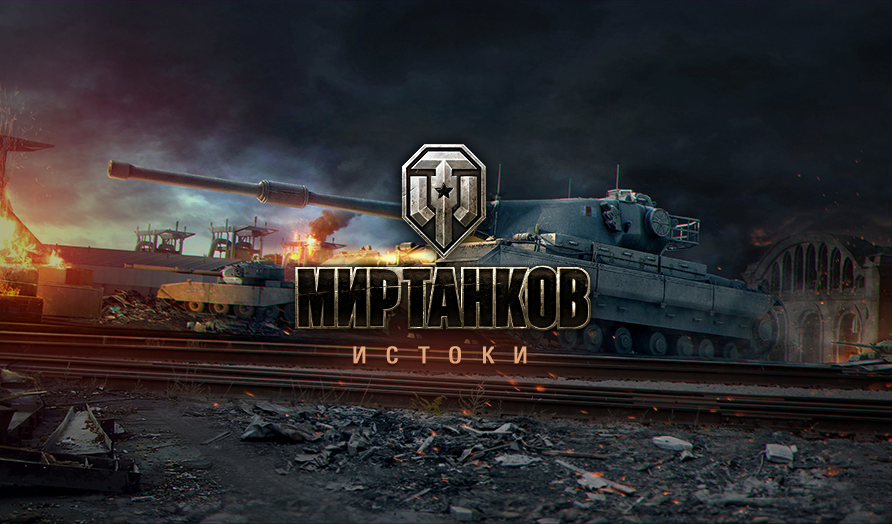
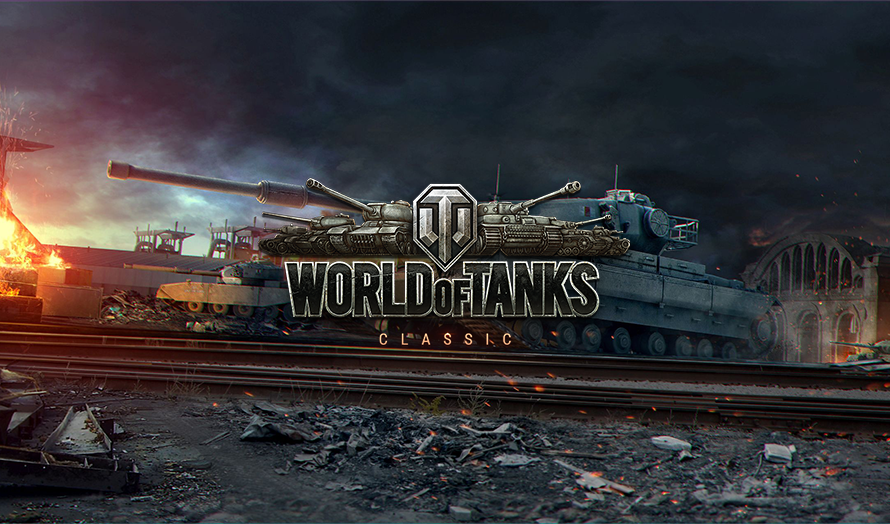
Da

diff --git a/_projects/(1) WoT Classic.md b/_projects/(1) WoT Classic.md
@@ -1,6 +1,6 @@
 ---
-name: Мир Танков: Истоки
+name: WoT это Классика!
 image: https://raw.githubusercontent.com/MuRaMiHa/MuRaMiHa.github.io/main/img/wotclassic.png
-description: Серия модификаций «Мир Танков: Истоки» - это набор интерфейсных, графических и звуковых модов, которые созданы с целью вернуть вам ощущение игры в "те самые танки".
-external_url: https://muramiha.github.io/mtclassic/
+description: Серия модификаций "WoT это Классика!" - это набор интерфейсных, графических и звуковых модов, которые созданы с целью вернуть вам ощущение игры в "те самые танки".
+external_url: https://muramiha.github.io/wotclassic/
 ---
